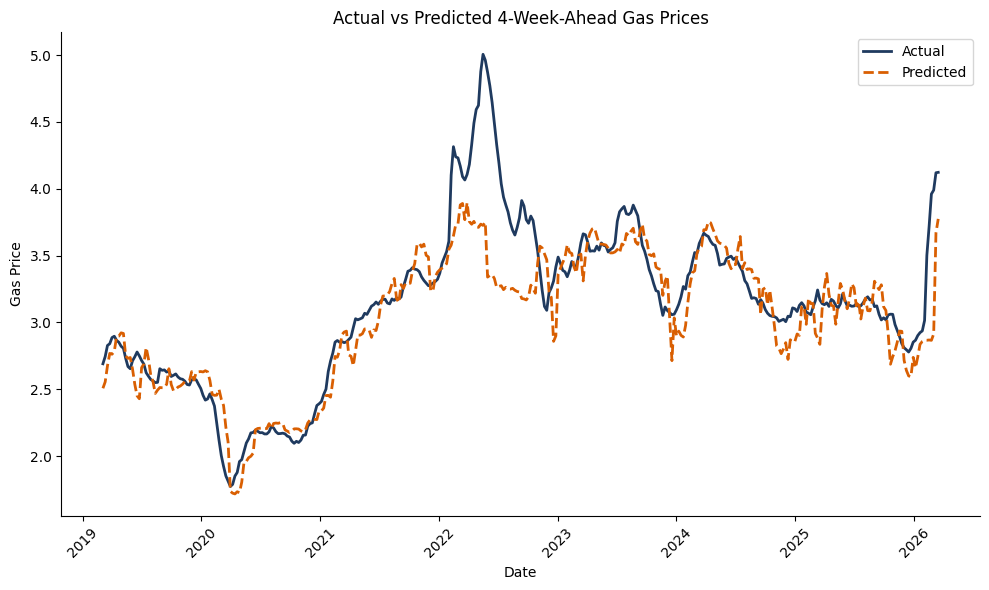
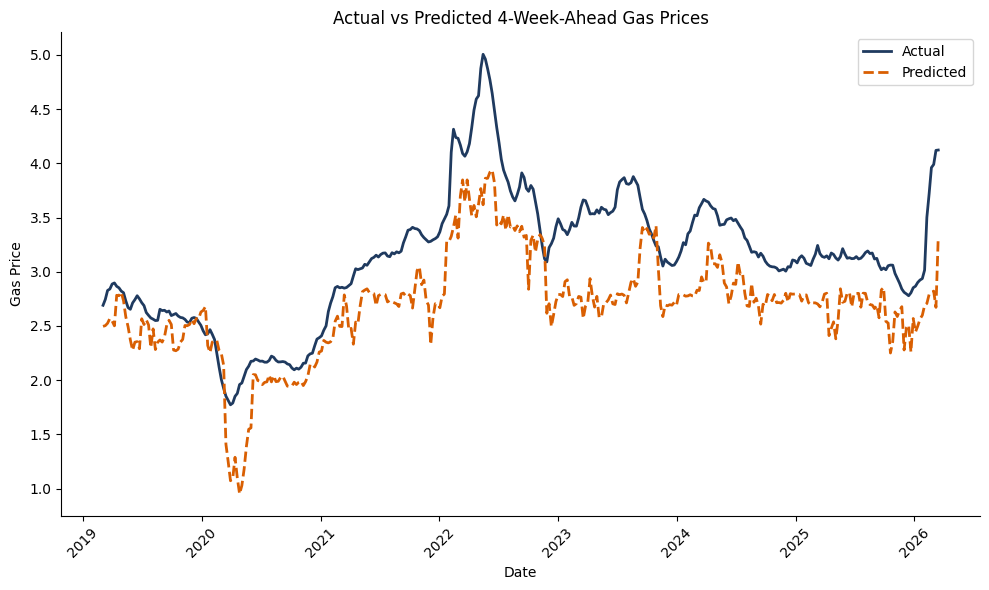
Pipeline changes

diff --git a/pipeline/pipeline.md b/pipeline/pipeline.md
@@ -4024,13 +4024,13 @@ print("\nColumns:", df.columns.tolist())
 model_df = df.dropna().copy()
 
 features = [
-    "gas_price",
+    #"gas_price",
     "wti_price",
     "recession",
     "wti_pct_change",
-    "gas_lag1",
-    "gas_lag2",
-    "gas_lag3"
+    #"gas_lag1",
+    #"gas_lag2",
+    #"gas_lag3"
 ]
 
 target = "target_gas_4w"
@@ -4103,9 +4103,9 @@ print("RMSE:", round(rmse, 4))
 print("R^2:", round(r2, 4))
 ```
 
-    MAE: 0.1942
-    RMSE: 0.3084
-    R^2: 0.7338
+    MAE: 0.4482
+    RMSE: 0.5253
+    R^2: 0.2277
 
 
 ## Analysis complexity, feature importance
@@ -4122,13 +4122,9 @@ print(importance_df)
 ```
 
               feature  importance
-    0       gas_price    0.976824
-    1       wti_price    0.010048
-    6        gas_lag3    0.004119
-    3  wti_pct_change    0.003395
-    5        gas_lag2    0.003045
-    4        gas_lag1    0.002427
-    2       recession    0.000141
+    0       wti_price    0.984410
+    2  wti_pct_change    0.012982
+    1       recession    0.002608
 
 
 ## Create a results DataFrame
@@ -4147,11 +4143,11 @@ print(results_df.head())
 ```
 
             Date  actual_gas_4w  predicted_gas_4w     error
-    0 2019-03-04          2.691          2.507580  0.183420
-    1 2019-03-11          2.745          2.555610  0.189390
-    2 2019-03-18          2.828          2.675788  0.152212
-    3 2019-03-25          2.841          2.768627  0.072373
-    4 2019-04-01          2.887          2.762384  0.124616
+    0 2019-03-04          2.691          2.496443  0.194557
+    1 2019-03-11          2.745          2.503299  0.241701
+    2 2019-03-18          2.828          2.525569  0.302431
+    3 2019-03-25          2.841          2.569938  0.271062
+    4 2019-04-01          2.887          2.545684  0.341316
 
 
 ## Visualize results, actual vs predicted over time
